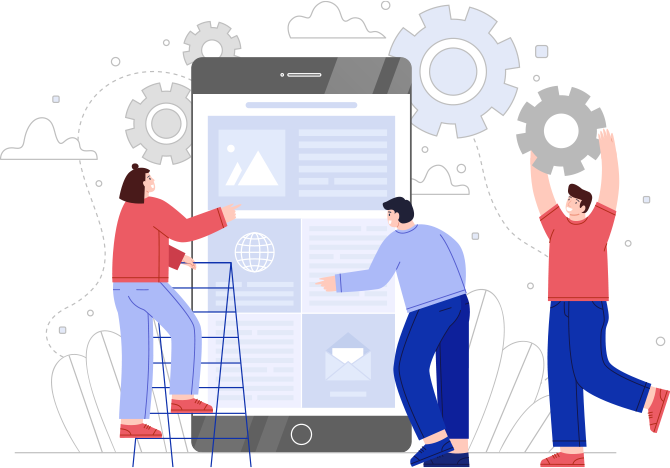
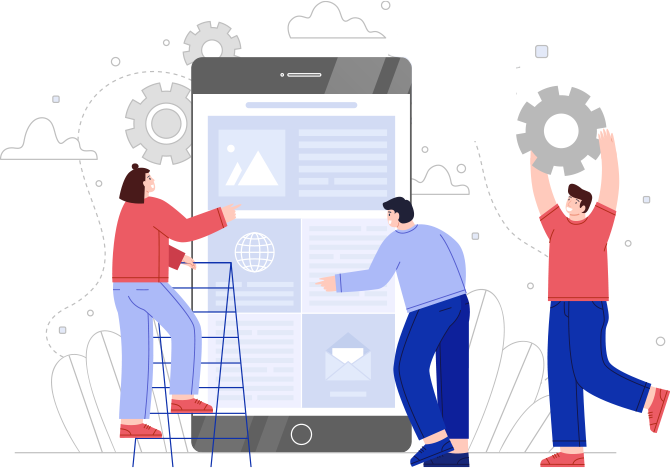
'rotate'

Changed region(s): [[0.5672, 0.0, 0.7761, 0.2991]]

diff --git a/index.html b/index.html
@@ -75,6 +75,7 @@
           </div>
           <div class="col-12 col-lg-6 order-1 position-relative">
             <img src="img/top-section/right-img.png" alt="banner" class="img-r-column position-relative">
+            <img src="img/top-section/anim.png" alt="" class="anim">
             <h2 class="col-12 text-center title-blue mobile-title-banner text-danger">ПОЧЕМУ С НАМИ РАБОТАЮТ...</h2>
           </div>
         </div>
@@ -416,7 +417,7 @@
       <div class="row row-cols-2">
         <div class="col-12 col-md-3 container-info">
           <h6>Офис</h6>
-          <p>Самара, Московское Шоссе 55, 3-ий этаж, офис 611</p>
+          <p>Самара, Московское Шоссе 55, 6-ой этаж, офис 611</p>
           <h6 class="mt-5">Телефон</h6>
           <p>+7 (960) 348 51 28</p>
           <a href="https://yandex.ru/maps/?um=constructor%3Af5e10b9ecf0236fda22b17a231a89bd664ee3b5aa9433a69c749df813877ddb3&source=constructorLink" class="map-link desktop-map-link mt-5 border-red">

diff --git a/css/style.css b/css/style.css
@@ -148,10 +148,29 @@ body{
 
 }
 
+.anim{
+    position: absolute;
+    left: 55%;
+    width: 100px;
+    transition: all 1s;
+    animation: rotate 5s infinite;
+}
+
+@keyframes rotate{
+    0% {
+        transform: rotate(360deg);
+    }
+    50%{
+        transform: rotate(180deg);
+    }
+    100%{
+        transform: rotate(360deg);
+    }
+}
+
 .list-top-section__item{
     list-style-type: none;
     font-size: 18px;
-
 }
 
 .list-top-section__item::before{
